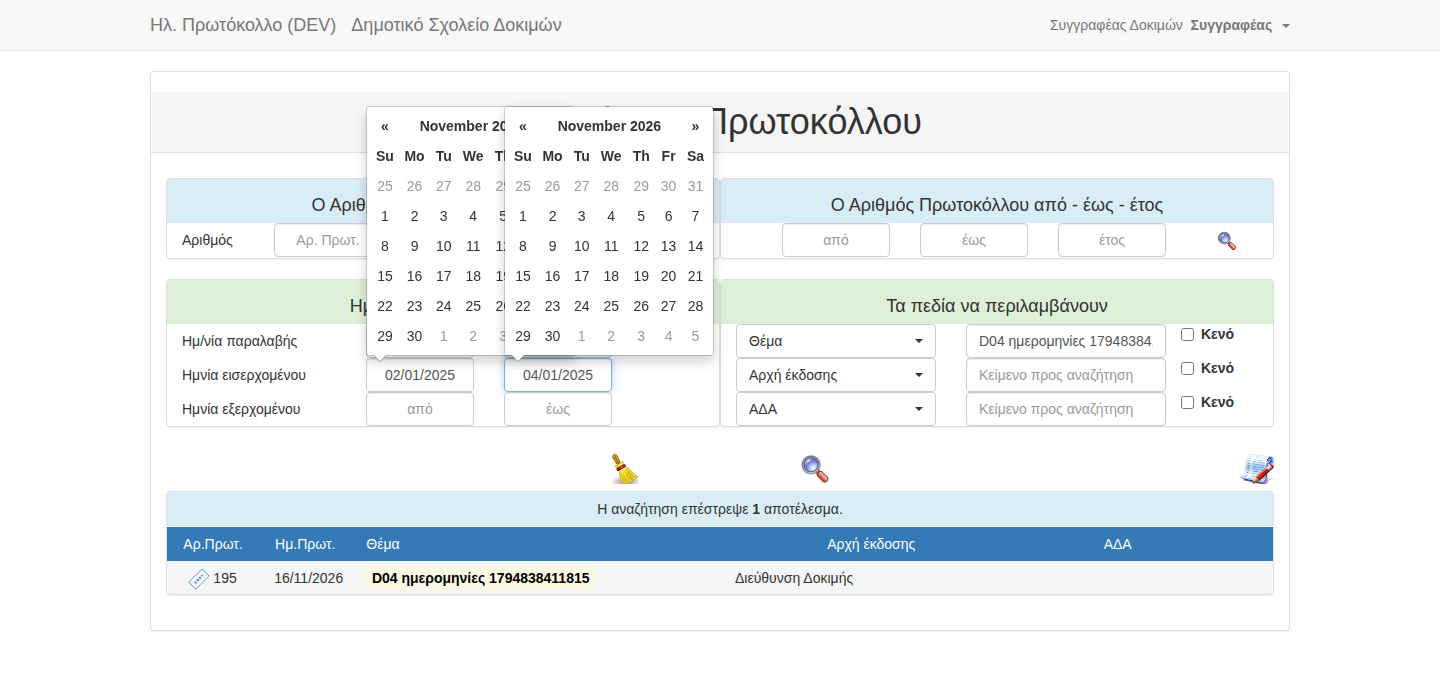
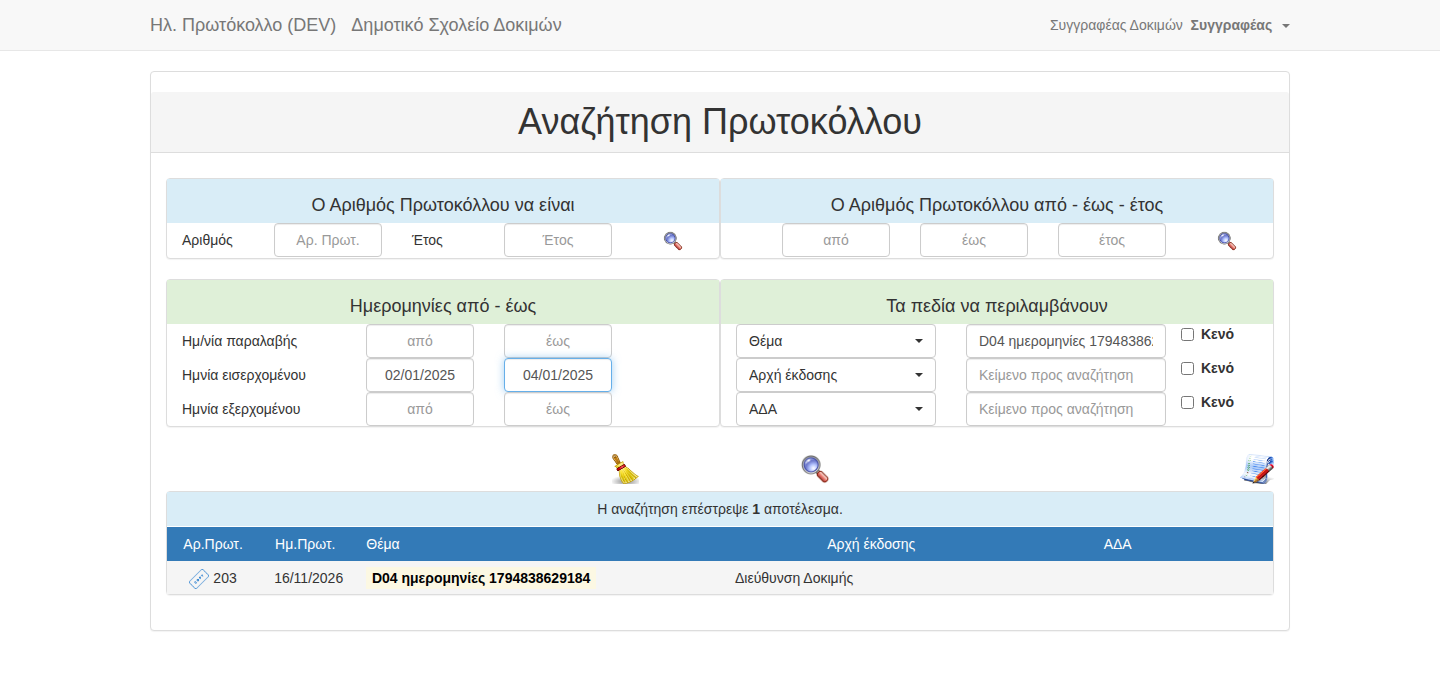
D04: report, browser test evidence

Changed region(s): [[0.25, 0.15, 0.5, 0.54], [0.375, 0.81, 0.4062, 0.84]]

diff --git a/e2e/tests/dates.spec.js b/e2e/tests/dates.spec.js
@@ -20,6 +20,7 @@ test('incoming date is saved, shown again and found by a date range (D04)', asyn
   await page.evaluate(() => formSubmit());
   await page.waitForURL(/\/home\/\d+$/);
   await expect(page.locator('input[name=in_date]')).toHaveValue('03/01/2025');
+  await page.addStyleTag({ content: '.datepicker-dropdown { display: none !important; }' });   // keep the screenshots clear
   await evidence(page, 'd04-saved-incoming-date', { clip: { x: 0, y: 0, width: 1440, height: 450 } });
 
   await page.goto('/find');
@@ -30,6 +31,7 @@ test('incoming date is saved, shown again and found by a date range (D04)', asyn
   await page.evaluate(() => getFindData());
   const results = page.locator('#showFindData').first();
   await expect(results).toContainText(subject);
+  await page.addStyleTag({ content: '.datepicker-dropdown { display: none !important; }' });
   await evidence(page, 'd04-found-by-date-range', { clip: { x: 0, y: 0, width: 1440, height: 700 } });
 
   await page.fill('#apoEiserxDate', '04/01/2025');   // range after the date: not found

diff --git a/docs/reports/D04.md b/docs/reports/D04.md
@@ -1,0 +1,55 @@
+# D04: dates as real DATE columns
+
+| | |
+|---|---|
+| Status | ✅ Done (takes effect on the production server at the final deployment, when `migrate` runs) |
+| Branch | `task/D04-date-columns` |
+
+## What was wrong
+All dates were stored as whole numbers: 5 January 2026 was `20260105`. The database could not tell a date from any
+other number, so it accepted impossible dates (`20260231`, `0`, a digit missing), and every date calculation had to
+be done in PHP. Affected: the registration date, incoming and outgoing date, "to be handled by" and "handled on"
+dates of protocols, and the expiry date of attachments.
+
+## What changed
+- Migration `2026_11_16_000005_integer_dates_to_date_columns`: the six columns become `DATE`; MySQL converts each
+  valid number itself (`20260105` → `2026-01-05`). It checks every value first:
+  - a value that is not a real date (e.g. `0`, `20260231`, `2026015`) is **not lost**: it is copied to the new table
+    `legacy_invalid_dates` (table, row id, column, old value) and the date is left empty;
+  - the registration date is required, so if one of those is not a real date the migration **stops before changing
+    anything** and names the protocol ids, so they can be corrected first.
+  It can run again safely, and can be reversed (back to numbers).
+- The old screens (about 80 places in the code) still work with the numbers: a transitional converter
+  (`App\Casts\LegacyYmdDate`) shows them `20260105` and accepts it back. New code reads real dates
+  (`$protocol->dateOf('in_date')`). The converter goes when the old screens are removed (Z01).
+- Searches that compare dates (search and print date ranges, expired attachments, "same incoming number on the same
+  date", the number-gap check) now compare with real dates.
+- From now on MySQL refuses an impossible date instead of storing it.
+
+## How verified
+- `DateColumnsTest` (8 tests): the columns are `DATE`; numbers, text and dates are stored and read back as the old
+  code expects, while new code gets dates; an impossible date is refused; the protocol form saves and shows all four
+  dates; list, search by registration date and by incoming date; expired attachments go to the trash and a future
+  one stays; "same incoming number" check.
+- `DateColumnsMigrationTest` (4 tests, on number columns as in a production backup): valid numbers become the right
+  dates; invalid ones are kept in `legacy_invalid_dates` and emptied; an impossible registration date stops the
+  migration with nothing changed, and after correcting it the migration runs; running it twice; going back.
+- `AdoptLegacySchemaTest`: a production-shaped backup with number columns gets date columns after
+  `migrate:adopt-legacy` + `migrate`.
+- All earlier tests pass unchanged on the new columns (they still use the numbers the old code uses).
+- Browser (`e2e/tests/dates.spec.js`): a writer saves a protocol with incoming date 03/01/2025; the form shows it
+  again; the search with incoming dates 02/01/2025–04/01/2025 finds it, 04/01/2025 onwards does not.
+
+  ![incoming date saved and shown](img/D04/d04-saved-incoming-date.png)
+
+  ![found by the incoming-date range](img/D04/d04-found-by-date-range.png)
+
+## Owner actions
+1. After `git pull`: **Real data: load** again (runs `migrate`). If it stops with *"protocol(s) have a registration
+   date that is not a real date"*, send me only that message's first line without the ids; we'll decide together
+   how to correct them. Otherwise open a few protocols and check their dates look as before, and try a search by
+   date range.
+2. Optional: in the local copy, the table `legacy_invalid_dates` lists any dates that were not real dates (it is
+   empty if all were fine). Look at it yourself in phpMyAdmin/Adminer (don't send me its contents); tell me only how
+   many rows it has.
+3. Final deployment: nothing extra (`php artisan migrate`, after the backup). It goes into the deployment guide.
